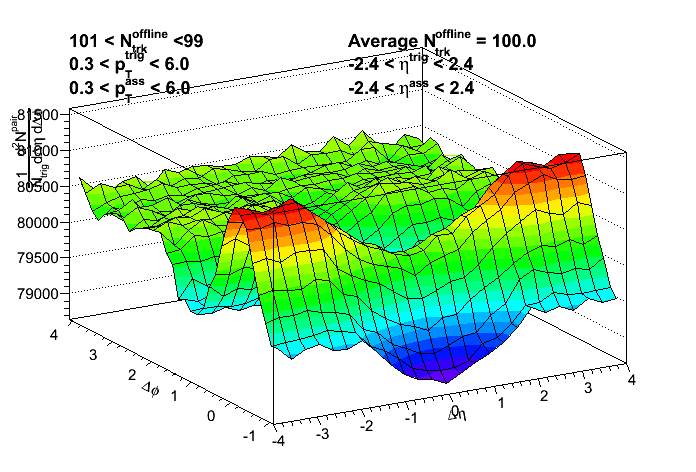
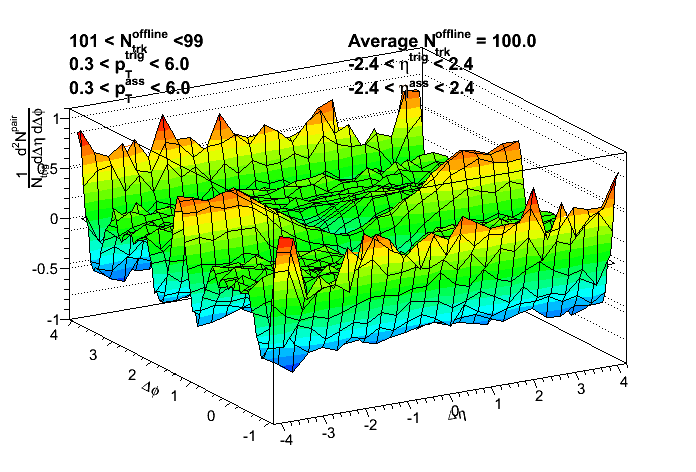
ridge deubg

diff --git a/flow/Ridge/pPbDataV200m100/Draw.C b/flow/Ridge/pPbDataV200m100/Draw.C
@@ -1,21 +1,26 @@
 #include "par.h"
 void Draw(){
     gStyle->SetOptStat(kFALSE);
-    TFile *f = TFile::Open(Form("Anav2_merged.root"));
+    TFile *f = TFile::Open(Form("Anav3_merged.root"));
     int xbin=0;
     TH2F* hr = (TH2F*)f->Get(Form("D_%d/hr",xbin));
+    TH2F* s = (TH2F*)f->Get(Form("D_%d/s",xbin));
+    TH2F* b = (TH2F*)f->Get(Form("D_%d/b",xbin));
+    TH2F* hFrame = new TH2F("hFrame","",detastep,detamin,detamax,dphistep,dphimin,dphimax);
+    hFrame->Clear();
     TVectorD* vavgtrk = (TVectorD*)f->Get(Form("avgtrk"));
-    hr->SetTitle("");
-    hr->GetXaxis()->SetRangeUser(-4,4);
-    hr->GetYaxis()->SetRangeUser(-4,4);
+    hFrame->SetTitle("");
+    hFrame->GetXaxis()->SetRangeUser(-4,4);
+    hFrame->GetYaxis()->SetRangeUser(-1,4);
  //   hr->GetZaxis()->SetRangeUser(0,2);
-    hr->GetXaxis()->SetTitle("#Delta#eta");
-    hr->GetXaxis()->CenterTitle();
-    hr->GetYaxis()->SetTitle("#Delta#phi");
-    hr->GetYaxis()->CenterTitle();
-    hr->GetZaxis()->SetTitle("#frac{1}{N_{trig}}#frac{d^{2}N^{pair}}{d#Delta#eta d#Delta#phi}");
+    hFrame->GetXaxis()->SetTitle("#Delta#eta");
+    hFrame->GetXaxis()->CenterTitle();
+    hFrame->GetYaxis()->SetTitle("#Delta#phi");
+    hFrame->GetYaxis()->CenterTitle();
+    hFrame->GetZaxis()->SetTitle("#frac{1}{N_{trig}}#frac{d^{2}N^{pair}}{d#Delta#eta d#Delta#phi}");
     TCanvas *c1 = new TCanvas();
-    hr->Draw("surf1");
+    hFrame->Draw("surf2");
+    hr->Draw("same surf1");
     TLatex l;
     l.SetNDC();
     l.SetTextSize(0.04);
@@ -25,6 +30,16 @@ void Draw(){
     l.DrawLatex(0.5,0.85,Form("%.1f < #eta^{trig} < %.1f",etatrigmin,etatrigmax));
     l.DrawLatex(0.1,0.80,Form("%.1f < p_{T}^{ass} < %.1f",ptassmin,ptassmax));
     l.DrawLatex(0.5,0.80,Form("%.1f < #eta^{ass} < %.1f",etaassmin,etaassmax));
-    c1->Print("ridgev2.png");
+    c1->Print("ridgev3.png");
+    TCanvas *c2 = new TCanvas();
+    hFrame->Draw("surf2");
+    s->Draw("same surf1");
+    l.DrawLatex(0.5,0.80,Form("signal"));
+    c2->Print("signal_v3.png");
+    TCanvas *c3 = new TCanvas();
+    hFrame->Draw("surf2");
+    b->Draw("same surf1");
+    l.DrawLatex(0.5,0.80,Form("background"));
+    c3->Print("background_v3.png");
 }
 

diff --git a/flow/Ridge/pPbDataV205m100/Draw.C b/flow/Ridge/pPbDataV205m100/Draw.C
@@ -4,18 +4,23 @@ void Draw(){
     TFile *f = TFile::Open(Form("Ana_merged.root"));
     int xbin=0;
     TH2F* hr = (TH2F*)f->Get(Form("D_%d/hr",xbin));
+    TH2F* s = (TH2F*)f->Get(Form("D_%d/s",xbin));
+    TH2F* b = (TH2F*)f->Get(Form("D_%d/b",xbin));
+    TH2F* hFrame = new TH2F("hFrame","",detastep,detamin,detamax,dphistep,dphimin,dphimax);
+    hFrame->Clear();
     TVectorD* vavgtrk = (TVectorD*)f->Get(Form("avgtrk"));
-    hr->SetTitle("");
-    hr->GetXaxis()->SetRangeUser(-4,4);
-    hr->GetYaxis()->SetRangeUser(-1,4);
+    hFrame->SetTitle("");
+    hFrame->GetXaxis()->SetRangeUser(-4,4);
+    hFrame->GetYaxis()->SetRangeUser(-1,4);
  //   hr->GetZaxis()->SetRangeUser(0,2);
-    hr->GetXaxis()->SetTitle("#Delta#eta");
-    hr->GetXaxis()->CenterTitle();
-    hr->GetYaxis()->SetTitle("#Delta#phi");
-    hr->GetYaxis()->CenterTitle();
-    hr->GetZaxis()->SetTitle("#frac{1}{N_{trig}}#frac{d^{2}N^{pair}}{d#Delta#eta d#Delta#phi}");
+    hFrame->GetXaxis()->SetTitle("#Delta#eta");
+    hFrame->GetXaxis()->CenterTitle();
+    hFrame->GetYaxis()->SetTitle("#Delta#phi");
+    hFrame->GetYaxis()->CenterTitle();
+    hFrame->GetZaxis()->SetTitle("#frac{1}{N_{trig}}#frac{d^{2}N^{pair}}{d#Delta#eta d#Delta#phi}");
     TCanvas *c1 = new TCanvas();
-    hr->Draw("surf1");
+    hFrame->Draw("surf1");
+    hr->Draw("same surf1");
     TLatex l;
     l.SetNDC();
     l.SetTextSize(0.04);
@@ -26,5 +31,15 @@ void Draw(){
     l.DrawLatex(0.1,0.80,Form("%.1f < p_{T}^{ass} < %.1f",ptassmin,ptassmax));
     l.DrawLatex(0.5,0.80,Form("%.1f < #eta^{ass} < %.1f",etaassmin,etaassmax));
     c1->Print("ridgev2.png");
+    TCanvas *c2 = new TCanvas();
+    hFrame->Draw("surf2");
+    s->Draw("same surf1");
+    l.DrawLatex(0.5,0.80,Form("signal"));
+    c2->Print("signal_v2.png");
+    TCanvas *c3 = new TCanvas();
+    hFrame->Draw("surf2");
+    b->Draw("same surf1");
+    l.DrawLatex(0.5,0.80,Form("background"));
+    c3->Print("background_v2.png");
 }
 
